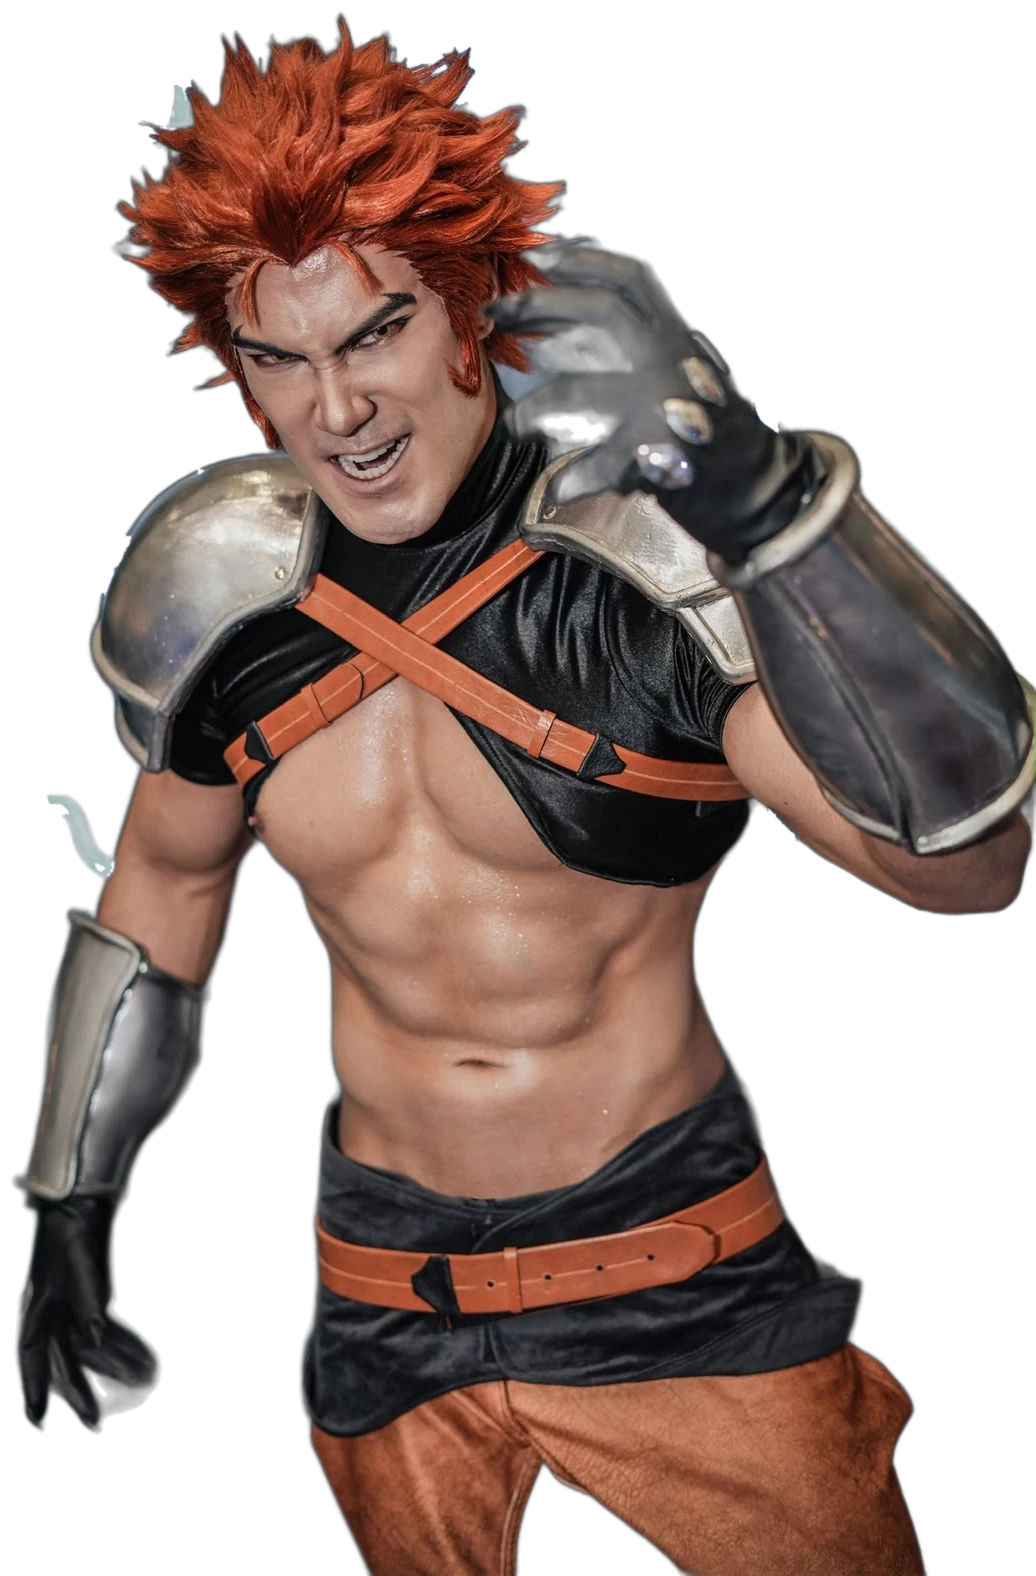
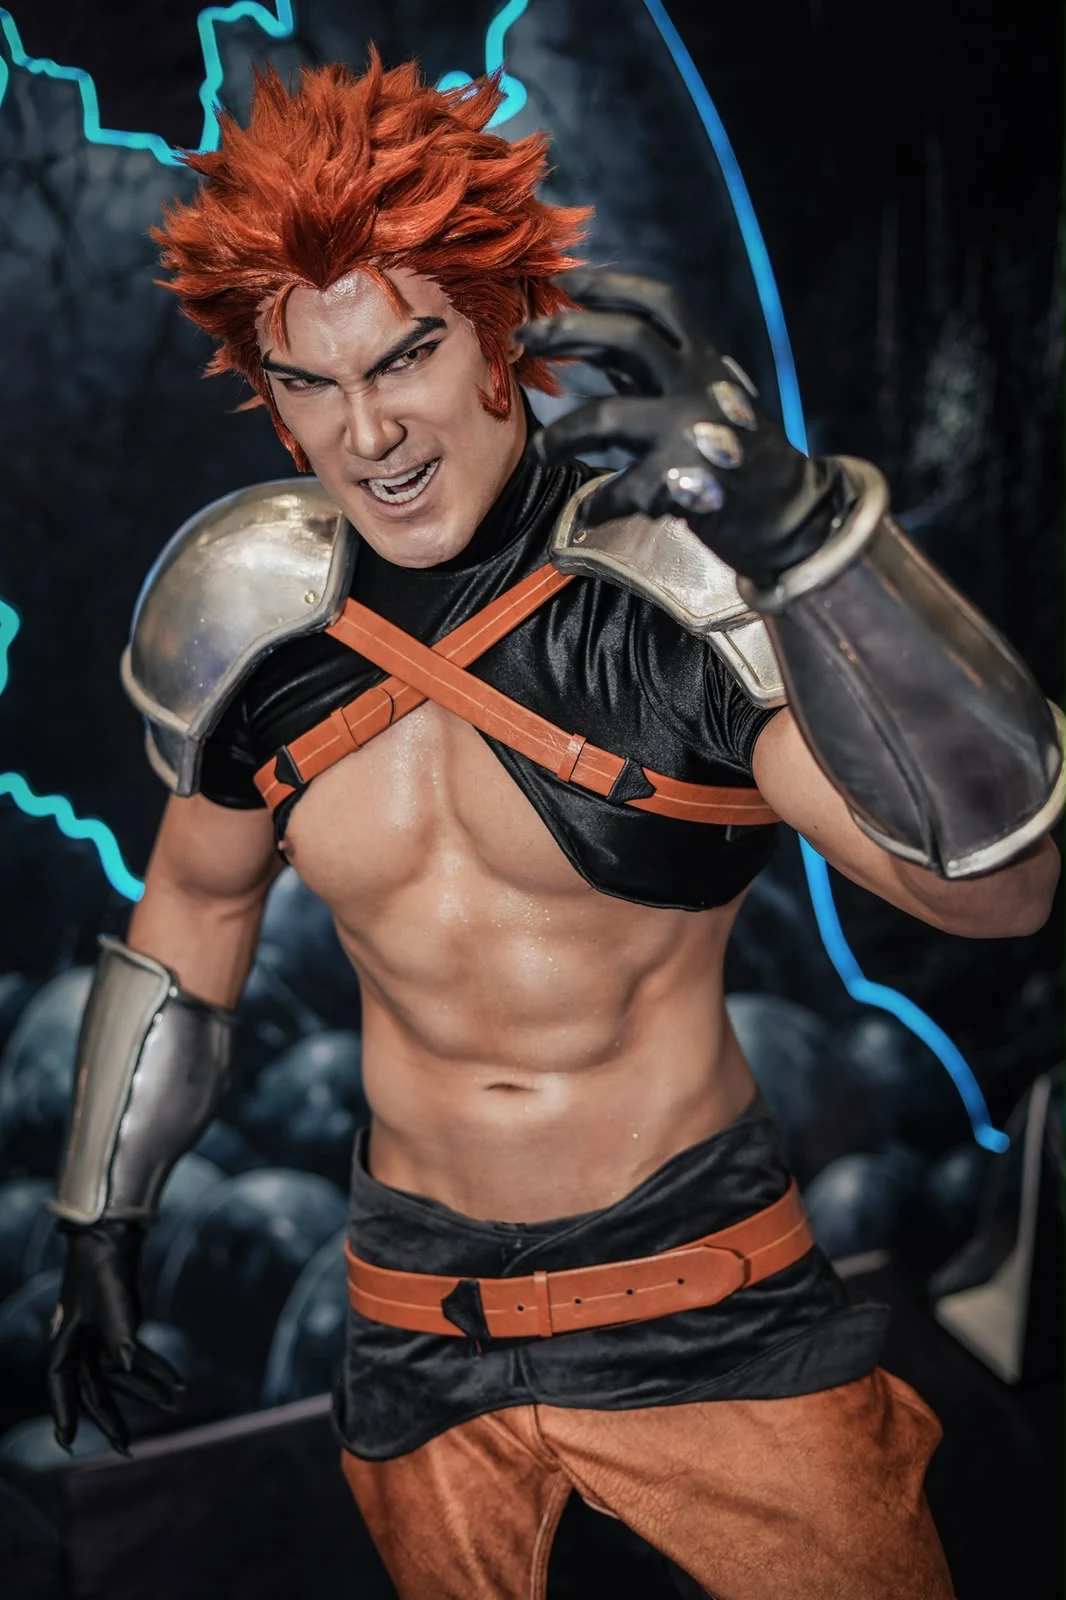
Invitados revelados: foto completa con su fondo natural (carta y ficha)
Claude-Session: https://claude.ai/code/session_01S7HqdkpY3nYDga4K2P4qCZ

diff --git a/client/src/pages/HomeEvento.tsx b/client/src/pages/HomeEvento.tsx
@@ -597,7 +597,7 @@ export default function HomeEvento() {
               {invitados.map((g, i) => (
                 <button key={g.n} className="pk-carta" onClick={() => setFicha(i)}>
                   <span className="pk-carta-arte">
-                    {g.foto ? <img src={g.foto} alt="" /> : <span className="pk-cond pk-carta-q">?</span>}
+                    {g.foto ? <img src={g.foto} alt={g.revelado ? g.nombre : ""} className={g.revelado ? "pk-foto-completa" : undefined} /> : <span className="pk-cond pk-carta-q">?</span>}
                     <span className="pk-carta-rango pk-cond">{g.rango}</span>
                   </span>
                   <span className="pk-carta-nombre pk-cond">{g.revelado ? g.nombre : `${e.artistaInvitado} ${String(g.n).padStart(2, "0")}`}</span>
@@ -630,7 +630,7 @@ export default function HomeEvento() {
           <div className="pk-ficha">
             <div className="pk-ficha-cuerpo">
               <span className="pk-ficha-rayas" aria-hidden="true" />
-              <div className="pk-ficha-arte">{g.foto ? <img src={g.foto} alt="" /> : <span className="pk-cond">?</span>}</div>
+              <div className={`pk-ficha-arte${g.revelado && g.foto ? " pk-ficha-arte-completa" : ""}`}>{g.foto ? <img src={g.foto} alt={g.revelado ? g.nombre : ""} /> : <span className="pk-cond">?</span>}</div>
               <div className="pk-ficha-info">
                 {g.revelado
                   ? <p className="pk-cond text-[38px] leading-none text-[#6ff0ff]">{g.nombre}</p>

diff --git a/client/src/index.css b/client/src/index.css
@@ -5254,3 +5254,15 @@ html.dark .fest-map .info h2 { color: var(--ink) !important; -webkit-text-fill-c
 @keyframes bh-fondo { from { opacity: 0; } to { opacity: 1; } }
 @keyframes bh-carpeta { from { opacity: 0; transform: scale(.35); } to { opacity: 1; transform: none; } }
 @media (prefers-reduced-motion: reduce) { .bh-fondo, .bh-carpeta { animation: none; } }
+
+
+/* ═══ Invitados revelados: la foto completa, con su fondo natural ═══
+   (las siluetas de los ocultos siguen recortadas y con brillo) */
+.pk-carta-arte img.pk-foto-completa { object-fit: cover; object-position: center top; filter: none; }
+.pk-ficha-arte.pk-ficha-arte-completa { height: 58vh; margin: calc(-1 * (env(safe-area-inset-top) + 24px)) -18px 0; overflow: hidden; }
+.pk-ficha-arte.pk-ficha-arte-completa img { width: 100%; height: 100%; object-fit: cover; object-position: center 18%; filter: none; }
+.pk-ficha-arte.pk-ficha-arte-completa::after { content: ""; position: absolute; inset: auto 0 0 0; height: 34%; background: linear-gradient(180deg, transparent, #3a3842); pointer-events: none; }
+@media (min-width: 1024px) {
+  .pk-ficha-arte.pk-ficha-arte-completa { height: 80vh; margin: 0; border-radius: 4px; }
+  .pk-ficha-arte.pk-ficha-arte-completa::after { height: 18%; background: linear-gradient(180deg, transparent, rgba(58,56,66,.85)); }
+}
